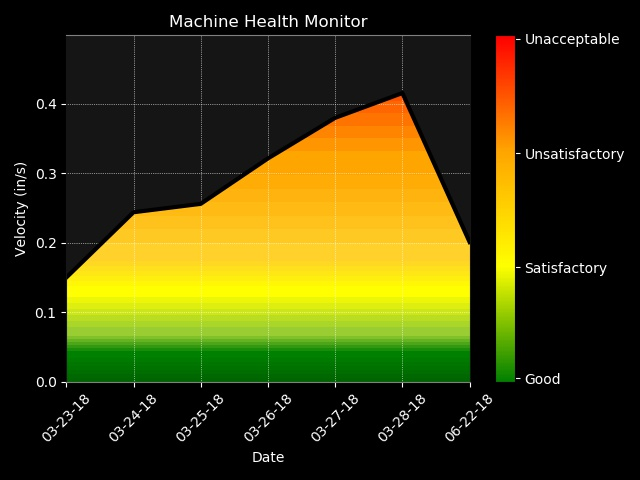
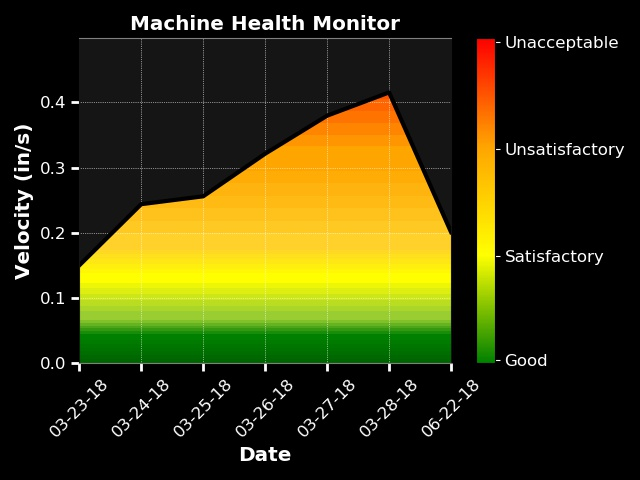
Edited the axis and color bar labels to make them easier to read

diff --git a/MachineMonitorFinal.py b/MachineMonitorFinal.py
@@ -270,12 +270,13 @@ def build_graph(scope, m_class):    #Find a way to incorporate the scope into th
     ax = plt.gca()
     ax.set_ylim([0, 1.2*max(plotp)])
     ax.set_facecolor('#151515')
+    ax.tick_params(direction='out', length=6, width=2, colors='w', grid_alpha=1,labelsize='large')
 
     plt.subplots_adjust(left=0.09, bottom=0.14, right=0.94, top=0.94, wspace=2.0, hspace=0)
 
-    plt.xlabel('Date')
-    plt.ylabel('Velocity (in/s)')
-    plt.title('Machine Health Monitor', color='w')
+    plt.xlabel('Date',size='x-large',weight='bold')
+    plt.ylabel('Velocity (in/s)',size='x-large',weight='bold')
+    plt.title('Machine Health Monitor', color='w',size='x-large',weight='bold')
 
     ###COLORBAR START###
 
@@ -286,7 +287,7 @@ def build_graph(scope, m_class):    #Find a way to incorporate the scope into th
     cbar_cmap = LinearSegmentedColormap.from_list("", cbar,N=256)
 
     cb1 = mpl.colorbar.ColorbarBase(cax, ticks=[0.01,0.33,0.66,0.99], cmap=cbar_cmap, orientation='vertical')
-    cb1.ax.set_yticklabels(['Good','Satisfactory','Unsatisfactory','Unacceptable'])
+    cb1.ax.set_yticklabels(['Good','Satisfactory','Unsatisfactory','Unacceptable'],size='large')
     cb1.ax.yaxis.set_tick_params(color='white')
 
     plt.setp(plt.getp(cb1.ax.axes, 'yticklabels'), color='white')
